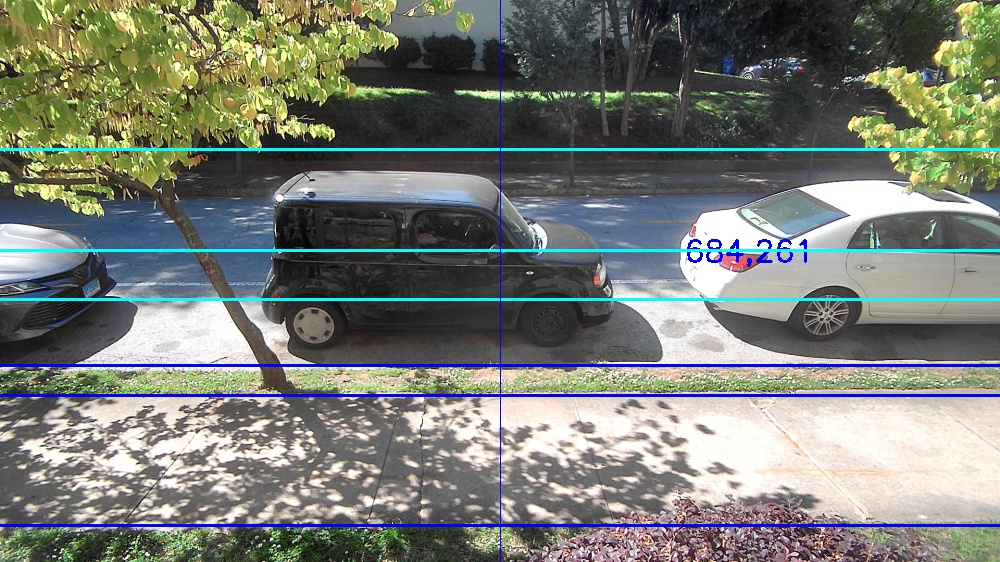
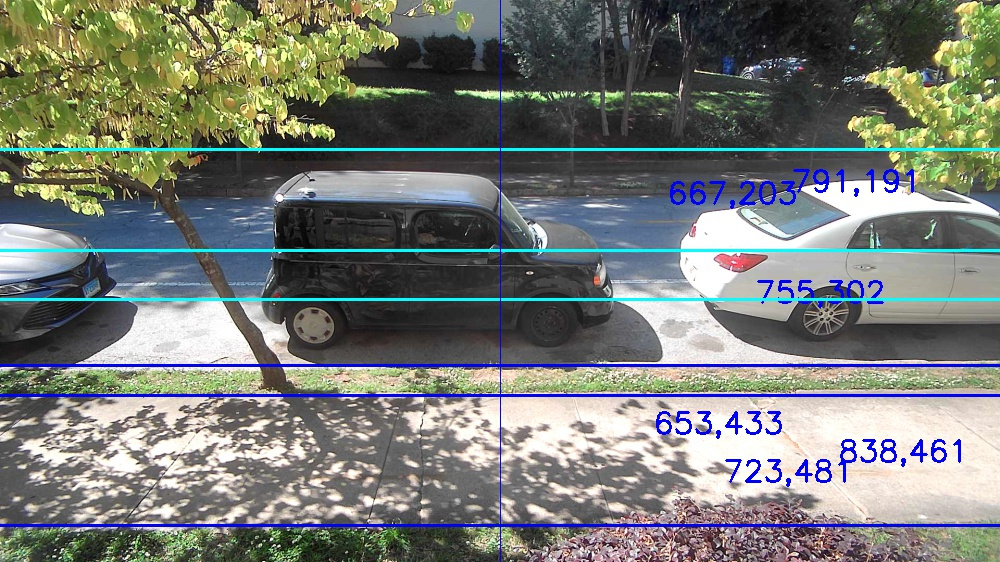
send click data

diff --git a/main.py b/main.py
@@ -8,10 +8,11 @@ import pickle
 import localizer_params as param
 import drawing_functions as drw
 import measure_functions as meas
+import comm_functions as comm
 
 HEADERSIZE = 10 
 IP = "127.0.0.1"
-PORT = 1234
+PORT = 1235
 my_client_id = "sensor"
 
 # construct the argument parse and parse the arguments
@@ -24,7 +25,6 @@ ap.add_argument("-c", "--connect", action = "store_true",
 	help = "Connect to server and send data.")
 args = vars(ap.parse_args())
 
-
 if args['source'] == 'v':
 	# get video stream
 	cap = cv2.VideoCapture(0)
@@ -34,28 +34,17 @@ else:
 	frame = cv2.imread(img)
 
 if args['connect'] == True:
-	client_socket = socket.socket(socket.AF_INET, socket.SOCK_STREAM)
-	client_socket.connect((IP, PORT))
-	client_socket.setblocking(False)
-	client_id = my_client_id.encode('utf-8')
-	client_id_header = f"{len(my_client_id):<{HEADERSIZE}}".encode('utf-8')
-	client_socket.send(client_id_header + client_id)
+	client_socket = comm.connect(IP, PORT, my_client_id)
 	
-	# send map data
 	# test x-y coordinate
 	test_data = np.array([1,2])
-	msg = pickle.dumps(test_data)
-	print(len(msg))
-	msg = bytes(f"{len(msg):<{HEADERSIZE}}", 'utf-8') + msg
-	client_socket.send(msg)
+	comm.broadcast_data(test_data, client_socket)
 
-	# broadcast static data
 	# gps coord of sensor
-	msg = pickle.dumps(param.sensor_gps)
-	msg = bytes(f"{len(msg):<{HEADERSIZE}}", 'utf-8') + msg
-	client_socket.send(msg)
+	comm.broadcast_data(param.sensor_gps, client_socket)
 
-	
+old_coord = meas.coord_clicked
+
 while True:
 
 	if args['source'] == 'v':
@@ -67,16 +56,17 @@ while True:
 
 	cv2.imshow('frame',frame)
 
+	old_coord = meas.coord_clicked
 	cv2.setMouseCallback('frame', meas.coordinate_click_event, frame)
-
-	# Broadcast dynamic data here
-
 
 	if cv2.waitKey(1) & 0xFF == ord('q'):
 		# save the last frame
 		cv2.imwrite('./last_frame.jpg', frame)
 		break
 
+	# Broadcast data to server
+	if meas.coord_clicked != old_coord:
+		comm.broadcast_data(meas.coord_clicked, client_socket)
 
 if args['source'] == 'v':
 	cap.release()

diff --git a/measure_functions.py b/measure_functions.py
@@ -1,8 +1,13 @@
 import cv2
 import localizer_params as param
 import numpy as np
+import comm_functions as comm
+
+global coord_clicked
+coord_clicked = 0
 
 def get_coordinate(xp,yp):
+    global coord_clicked
     # xp, yp are the coordinates in pixels in the image frame 
     # (upper left corner of the image)
 
@@ -67,9 +72,10 @@ def get_coordinate(xp,yp):
         P3_Y = P2_Y - cos_theta*D_P2P3
     
     print(P3_Y)
+    coord_clicked = P3_Y
+
     # need to figure out x coordinate
     
-
 def coordinate_click_event(event, x, y, flags, img):
 
     # x and y are in the xp-yp (image) frame
@@ -86,6 +92,7 @@ def coordinate_click_event(event, x, y, flags, img):
                     str(y), (x,y), font,
                     1, (255, 0, 0), 2)
         cv2.imshow('frame', img)
+
 
 
 

diff --git a/comm_functions.py b/comm_functions.py
@@ -1,0 +1,24 @@
+import localizer_params as param
+import numpy as np
+import socket
+import pickle
+
+HEADERSIZE = 10
+
+def connect(ip, port, client_id):
+    client_socket = socket.socket(socket.AF_INET, socket.SOCK_STREAM)
+    client_socket.connect((ip, port))
+    client_socket.setblocking(False)
+    client_id = client_id.encode('utf-8')
+    client_id_header = f"{len(client_id):<{HEADERSIZE}}".encode('utf-8')
+    client_socket.send(client_id_header + client_id)
+    return client_socket
+
+def broadcast_data(data, my_socket):
+    # pickles data and sends it out via my_socket
+
+    msg = pickle.dumps(data)
+    msg = bytes(f"{len(msg):<{HEADERSIZE}}", 'utf-8') + msg
+    my_socket.send(msg)
+    
+    # return true if message send was successful?

diff --git a/pw_server.py b/pw_server.py
@@ -8,7 +8,7 @@ HEADER_LENGTH = 10
 # should have incoming data coming to this file from client: image processor/filter
 
 IP = "127.0.0.1"
-PORT = 1234
+PORT = 1235
 
 server_socket = socket.socket(socket.AF_INET, socket.SOCK_STREAM)
 server_socket.setsockopt(socket.SOL_SOCKET, socket.SO_REUSEADDR, 1)
@@ -96,7 +96,7 @@ while True:
             # Receive message - ASSUME IT IS PICKLED DATA
             message = receive_pickled_message(notified_socket)
             print(message)
-            
+
             # If False, client disconnected, cleanup
             if message is False:
                 print('Closed connection from: ')
